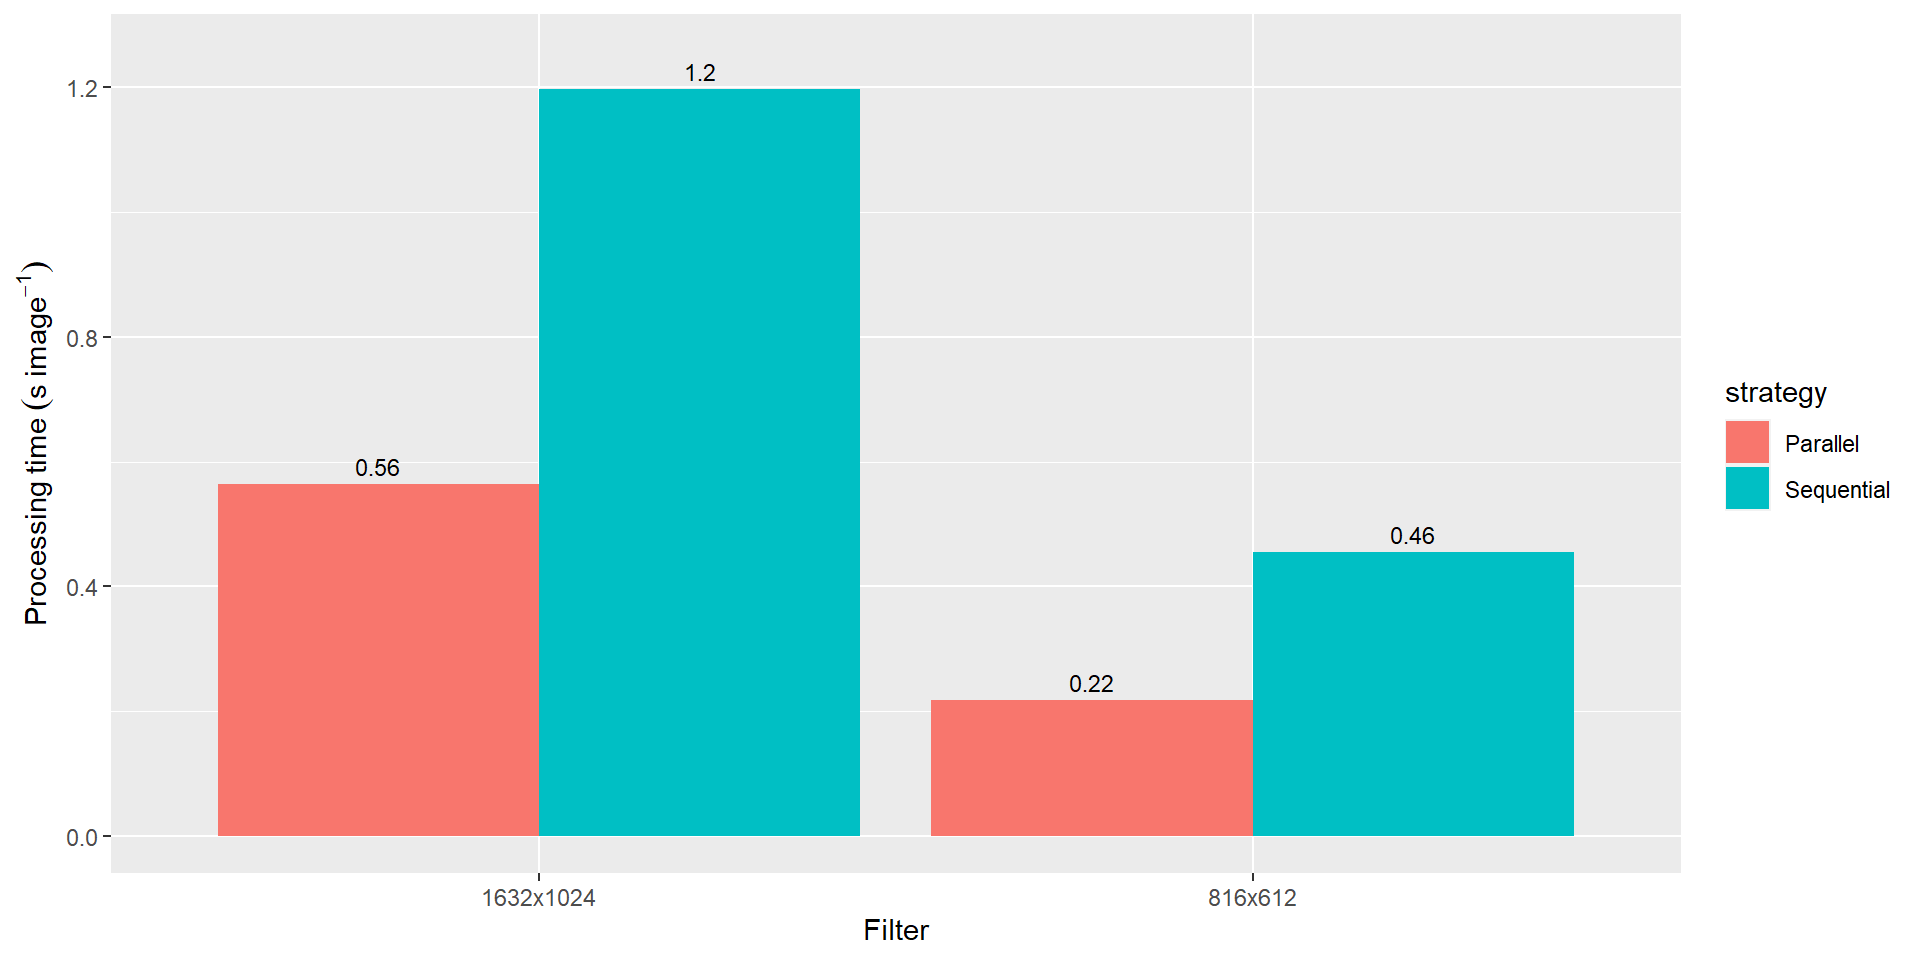
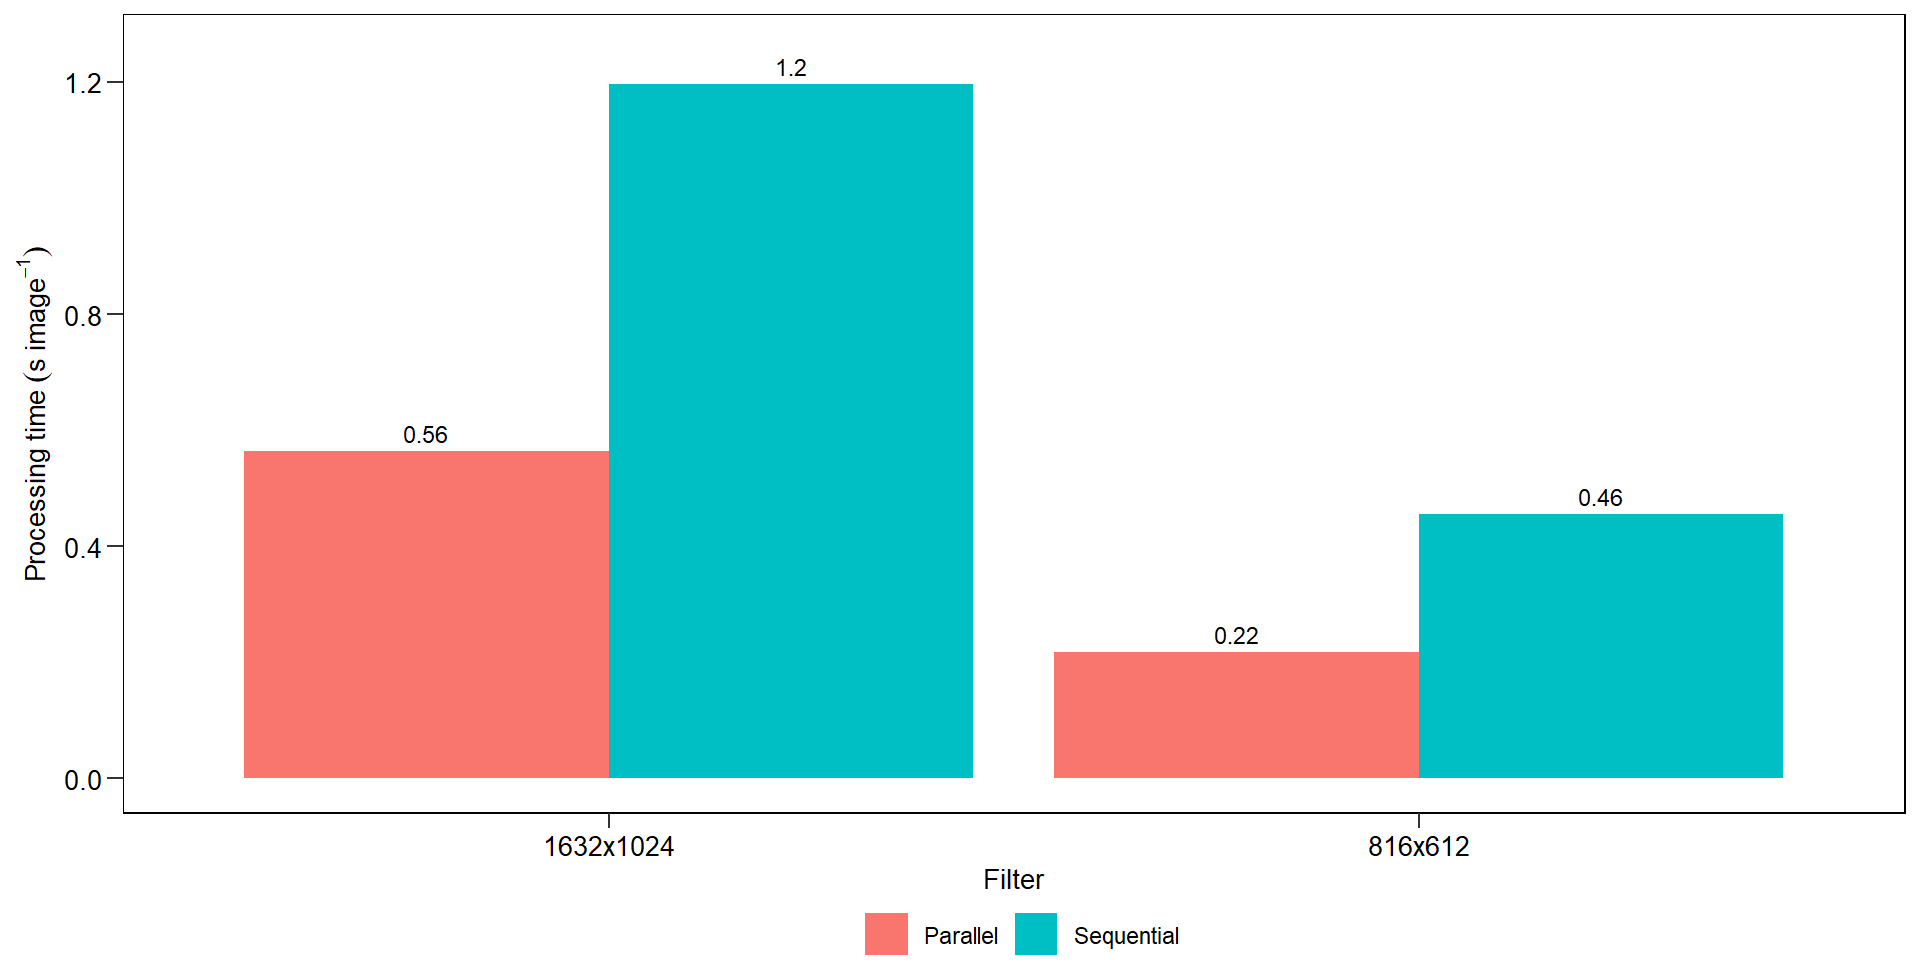
update site

diff --git a/docs/code.html b/docs/code.html
@@ -32,6 +32,7 @@
       pre > code.sourceCode { white-space: pre; position: relative; }
       pre > code.sourceCode > span { display: inline-block; line-height: 1.25; }
       pre > code.sourceCode > span:empty { height: 1.2em; }
+      .sourceCode { overflow: visible; }
       code.sourceCode > span { color: inherit; text-decoration: inherit; }
       div.sourceCode { margin: 1em 0; }
       pre.sourceCode { margin: 0; }
@@ -1191,7 +1192,7 @@
 <div class="sourceCode" id="cb51"><pre class="sourceCode r"><code class="sourceCode r"><span id="cb51-1"><a href="#cb51-1" aria-hidden="true" tabindex="-1"></a><span class="do">### concordance by resolution, filtering, crop, background</span></span>
 <span id="cb51-2"><a href="#cb51-2" aria-hidden="true" tabindex="-1"></a>df_ccc <span class="ot">&lt;-</span></span>
 <span id="cb51-3"><a href="#cb51-3" aria-hidden="true" tabindex="-1"></a>  validation <span class="sc">%&gt;%</span></span>
-<span id="cb51-4"><a href="#cb51-4" aria-hidden="true" tabindex="-1"></a>  <span class="fu">group_by</span>(filter) <span class="sc">%&gt;%</span></span>
+<span id="cb51-4"><a href="#cb51-4" aria-hidden="true" tabindex="-1"></a>  <span class="fu">group_by</span>(filter, resolution, background, crop) <span class="sc">%&gt;%</span></span>
 <span id="cb51-5"><a href="#cb51-5" aria-hidden="true" tabindex="-1"></a>  <span class="fu">get_ccc</span>(real, predicted) <span class="sc">%&gt;%</span></span>
 <span id="cb51-6"><a href="#cb51-6" aria-hidden="true" tabindex="-1"></a>  <span class="fu">mutate</span>(<span class="at">rho =</span> <span class="fu">paste0</span>(<span class="st">&quot;rho[c]:~&quot;</span>, <span class="fu">round</span>(pc, <span class="dv">3</span>)),</span>
 <span id="cb51-7"><a href="#cb51-7" aria-hidden="true" tabindex="-1"></a>         <span class="at">bc =</span> <span class="fu">paste0</span>(<span class="st">&quot;C[b]:~&quot;</span>, <span class="fu">round</span>(bc, <span class="dv">3</span>)),</span>
@@ -2605,7 +2606,7 @@ image_combine(masks, ncol = 3)</code></pre>
 <span id="cb197-10"><a href="#cb197-10" aria-hidden="true" tabindex="-1"></a>            <span class="at">vjust =</span> <span class="sc">-</span><span class="fl">0.5</span>,</span>
 <span id="cb197-11"><a href="#cb197-11" aria-hidden="true" tabindex="-1"></a>            <span class="at">hjust =</span> <span class="fl">0.5</span>,</span>
 <span id="cb197-12"><a href="#cb197-12" aria-hidden="true" tabindex="-1"></a>            <span class="at">size =</span> <span class="dv">3</span>) <span class="sc">+</span></span>
-<span id="cb197-13"><a href="#cb197-13" aria-hidden="true" tabindex="-1"></a>  <span class="co"># my_theme() +</span></span>
+<span id="cb197-13"><a href="#cb197-13" aria-hidden="true" tabindex="-1"></a>  <span class="fu">my_theme</span>() <span class="sc">+</span></span>
 <span id="cb197-14"><a href="#cb197-14" aria-hidden="true" tabindex="-1"></a>  <span class="fu">labs</span>(<span class="at">x =</span> <span class="st">&quot;Filter&quot;</span>,</span>
 <span id="cb197-15"><a href="#cb197-15" aria-hidden="true" tabindex="-1"></a>       <span class="at">y =</span> <span class="fu">expression</span>(Processing<span class="sc">~</span>time<span class="sc">~</span>(s<span class="sc">~</span>image<span class="sc">^</span>{<span class="sc">-</span><span class="dv">1</span>})))</span></code></pre></div>
 <p><img src="code_files/figure-html/benchmarking2-1.png" width="960" /></p>

diff --git a/docs/index.html b/docs/index.html
@@ -32,6 +32,7 @@
       pre > code.sourceCode { white-space: pre; position: relative; }
       pre > code.sourceCode > span { display: inline-block; line-height: 1.25; }
       pre > code.sourceCode > span:empty { height: 1.2em; }
+      .sourceCode { overflow: visible; }
       code.sourceCode > span { color: inherit; text-decoration: inherit; }
       div.sourceCode { margin: 1em 0; }
       pre.sourceCode { margin: 0; }
